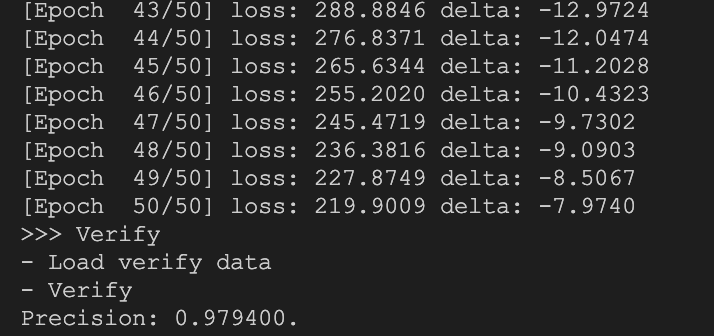
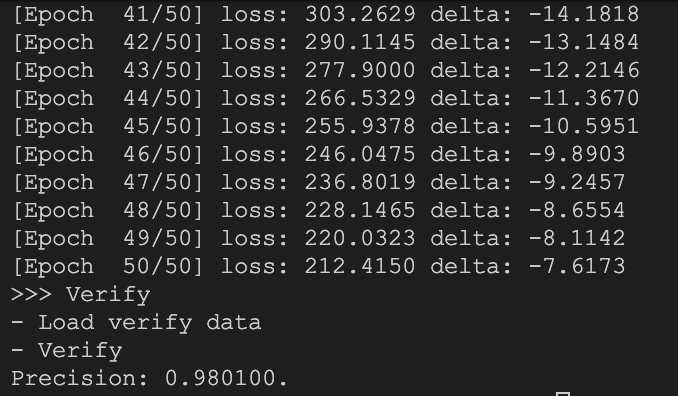
Update

diff --git a/README.md b/README.md
@@ -69,4 +69,4 @@ bpnn_use(&params, ins, outs);
 
 ## 示例
 
-基于本库实现的 MNIST 手写数字识别程序（使用 Sigmoid 函数作为隐藏层激活函数，Softmax 作为输出层激活函数，多分类交叉熵作为损失函数），50 轮训练后准确率可达 **97%**，详见 [BPNN Digit Recognizer](./example/README.md)。
+基于本库实现的 MNIST 手写数字识别程序（使用 Sigmoid 函数作为隐藏层激活函数，Softmax 作为输出层激活函数，多分类交叉熵作为损失函数），50 轮训练后准确率可达 **98%**，详见 [BPNN Digit Recognizer](./example/README.md)。

diff --git a/README_EN.md b/README_EN.md
@@ -71,4 +71,4 @@ bpnn_use(&params, ins, outs);
 
 ## Example
 
-An MNIST handwritten digit recognition program built on this library (Use the Sigmoid function as the hidden layer activation function, Softmax as the output layer activation function, and multi-class cross entropy as the loss function.), achieving **97%** accuracy after 50 training epochs. See [BPNN Digit Recognizer](./example/README_EN.md).
+An MNIST handwritten digit recognition program built on this library (Use the Sigmoid function as the hidden layer activation function, Softmax as the output layer activation function, and multi-class cross entropy as the loss function.), achieving **98%** accuracy after 50 training epochs. See [BPNN Digit Recognizer](./example/README_EN.md).

diff --git a/example/README.md b/example/README.md
@@ -29,6 +29,6 @@
 
 ## 结果
 
-迭代 50 轮后，测试集准确率可达 **97%**。
+迭代 50 轮后，测试集准确率可达 **98%**。
 
 ![image.png](./image/image.png)

diff --git a/example/README_EN.md b/example/README_EN.md
@@ -31,7 +31,7 @@ Extract the archives under `data_set/` before use.
 
 ## Results
 
-After 50 training epochs, the model achieves **97%** accuracy on the test set.
+After 50 training epochs, the model achieves **98%** accuracy on the test set.
 
 ![image.png](./image/image.png)
 